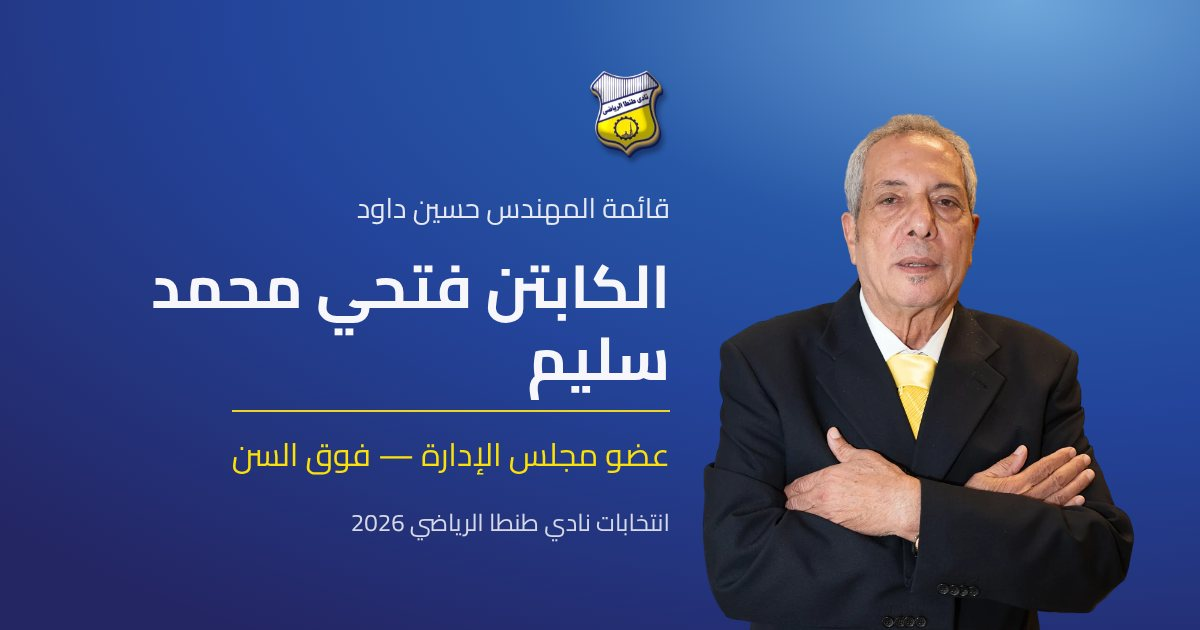
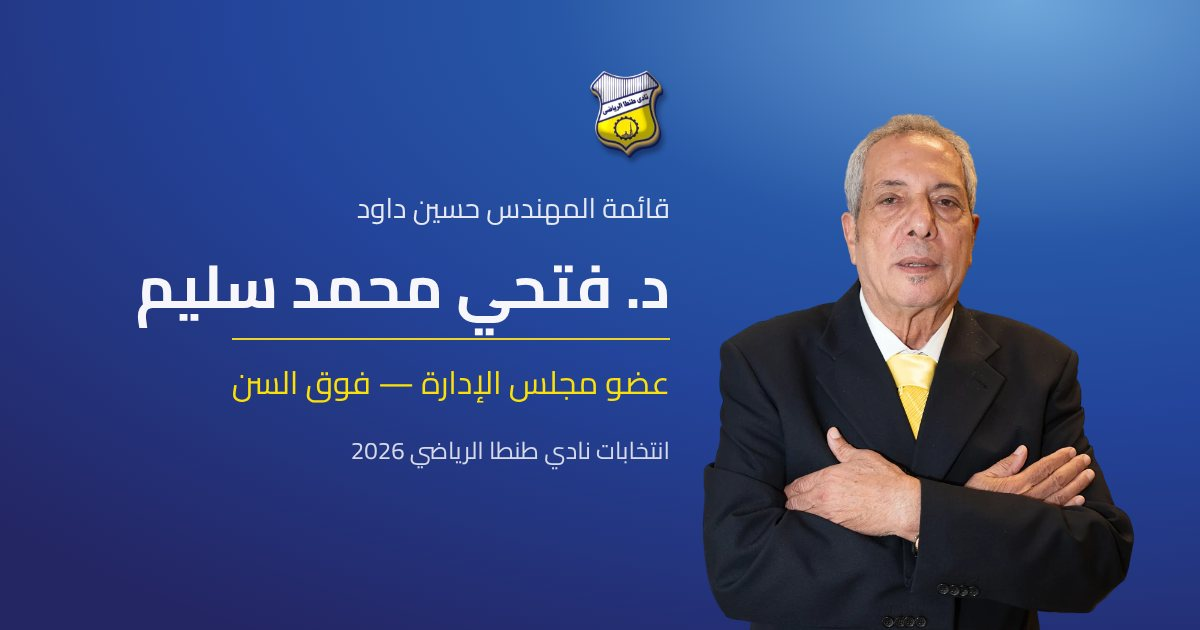
Tanta: the campaign's Facebook page in every share; د. فتحي محمد سليم
- Facebook: https://www.facebook.com/profile.php?id=61596208629223 (the
  campaign page) in the footer, the search data (sameAs), and every WhatsApp
  message (support page and header button), always after the site link so
  WhatsApp keeps building its preview from the website.
- The share kit's chat bubble shows every web address in a message as a
  link, and the phone is tall enough that the link card stays whole for the
  longest message on small phones.
- Fathy Selim's title is د. (the poster); his bio keeps his popular name
  كابتن فتحي سليم. His share card is redrawn.

Claude-Session: https://claude.ai/code/session_01LHd7Ai6tck8Mk2W4x1zYiU

Changed region(s): [[0.0925, 0.4222, 0.555, 0.6635], [0.185, 0.6937, 0.555, 0.754], [0.2775, 0.8143, 0.555, 0.8746]]

diff --git a/clients/tantasportsclubelections/content/ar/team/fathy-selim.md b/clients/tantasportsclubelections/content/ar/team/fathy-selim.md
@@ -2,9 +2,9 @@
 id: "candidate-fathy-selim"
 locale: "ar"
 slug: "team/fathy-selim"
-title: "الكابتن فتحي محمد سليم — عضو مجلس الإدارة — فوق السن"
+title: "د. فتحي محمد سليم — عضو مجلس الإدارة — فوق السن"
 template: "candidate"
 candidate: "fathy-selim"
 description: "لاعب سابق بالفريق الأول لكرة القدم بنادي طنطا الرياضي منذ عام 1966، ومديره الفني لاحقًا، ومدرب كرة قدم محترف بخبرات دولية."
 ---
-<p>الكابتن فتحي محمد سليم، وشهرته: كابتن فتحي سليم.</p><h2>التاريخ والخبرات داخل نادي طنطا الرياضي</h2><ul><li>لاعب بنادي طنطا الرياضي بالفريق الأول، منذ عام 1966.</li><li>الإشراف الفني على قطاع البراعم والناشئين.</li><li>تولي منصب المدير الفني للفريق الأول لكرة القدم.</li><li>العمل مديرًا للكرة، والمساهمة في إنجاز الصعود.</li><li>مدرب كرة قدم محترف.</li></ul><h2>المؤهلات العلمية والشهادات التدريبية</h2><ul><li>بكالوريوس التربية الرياضية، تخصص كرة القدم، جامعة حلوان.</li></ul><p>حاصل على شهادات ودورات تدريبية متخصصة في مجال التدريب الرياضي وكرة القدم من:</p><ul><li>الاتحاد الإفريقي لكرة القدم.</li><li>الاتحاد الآسيوي لكرة القدم.</li><li>جامعة نيوكاسل.</li><li>الاتحاد الإيرلندي.</li><li>الاتحاد الروماني.</li><li>الاتحاد اليوغوسلافي.</li><li>الاتحاد الإسباني.</li><li>اتحاد الإمارات لكرة القدم.</li></ul><h2>الخبرات العملية والتدريبية</h2><ul><li>الإشراف الفني على قطاعات البراعم والناشئين.</li><li>العمل مديرًا فنيًا للفريق الأول لكرة القدم.</li><li>العمل في مجال التدريب الاحترافي.</li><li>محاضر كرة قدم.</li></ul><h2>الخبرات الدولية</h2><p>خبرات تدريبية في عدد من الدول والأندية داخل:</p><ul><li>جمهورية مصر العربية.</li><li>المملكة العربية السعودية.</li><li>مملكة البحرين.</li><li>دولة الإمارات العربية المتحدة.</li></ul>
+<p>د. فتحي محمد سليم، وشهرته: كابتن فتحي سليم.</p><h2>التاريخ والخبرات داخل نادي طنطا الرياضي</h2><ul><li>لاعب بنادي طنطا الرياضي بالفريق الأول، منذ عام 1966.</li><li>الإشراف الفني على قطاع البراعم والناشئين.</li><li>تولي منصب المدير الفني للفريق الأول لكرة القدم.</li><li>العمل مديرًا للكرة، والمساهمة في إنجاز الصعود.</li><li>مدرب كرة قدم محترف.</li></ul><h2>المؤهلات العلمية والشهادات التدريبية</h2><ul><li>بكالوريوس التربية الرياضية، تخصص كرة القدم، جامعة حلوان.</li></ul><p>حاصل على شهادات ودورات تدريبية متخصصة في مجال التدريب الرياضي وكرة القدم من:</p><ul><li>الاتحاد الإفريقي لكرة القدم.</li><li>الاتحاد الآسيوي لكرة القدم.</li><li>جامعة نيوكاسل.</li><li>الاتحاد الإيرلندي.</li><li>الاتحاد الروماني.</li><li>الاتحاد اليوغوسلافي.</li><li>الاتحاد الإسباني.</li><li>اتحاد الإمارات لكرة القدم.</li></ul><h2>الخبرات العملية والتدريبية</h2><ul><li>الإشراف الفني على قطاعات البراعم والناشئين.</li><li>العمل مديرًا فنيًا للفريق الأول لكرة القدم.</li><li>العمل في مجال التدريب الاحترافي.</li><li>محاضر كرة قدم.</li></ul><h2>الخبرات الدولية</h2><p>خبرات تدريبية في عدد من الدول والأندية داخل:</p><ul><li>جمهورية مصر العربية.</li><li>المملكة العربية السعودية.</li><li>مملكة البحرين.</li><li>دولة الإمارات العربية المتحدة.</li></ul>
